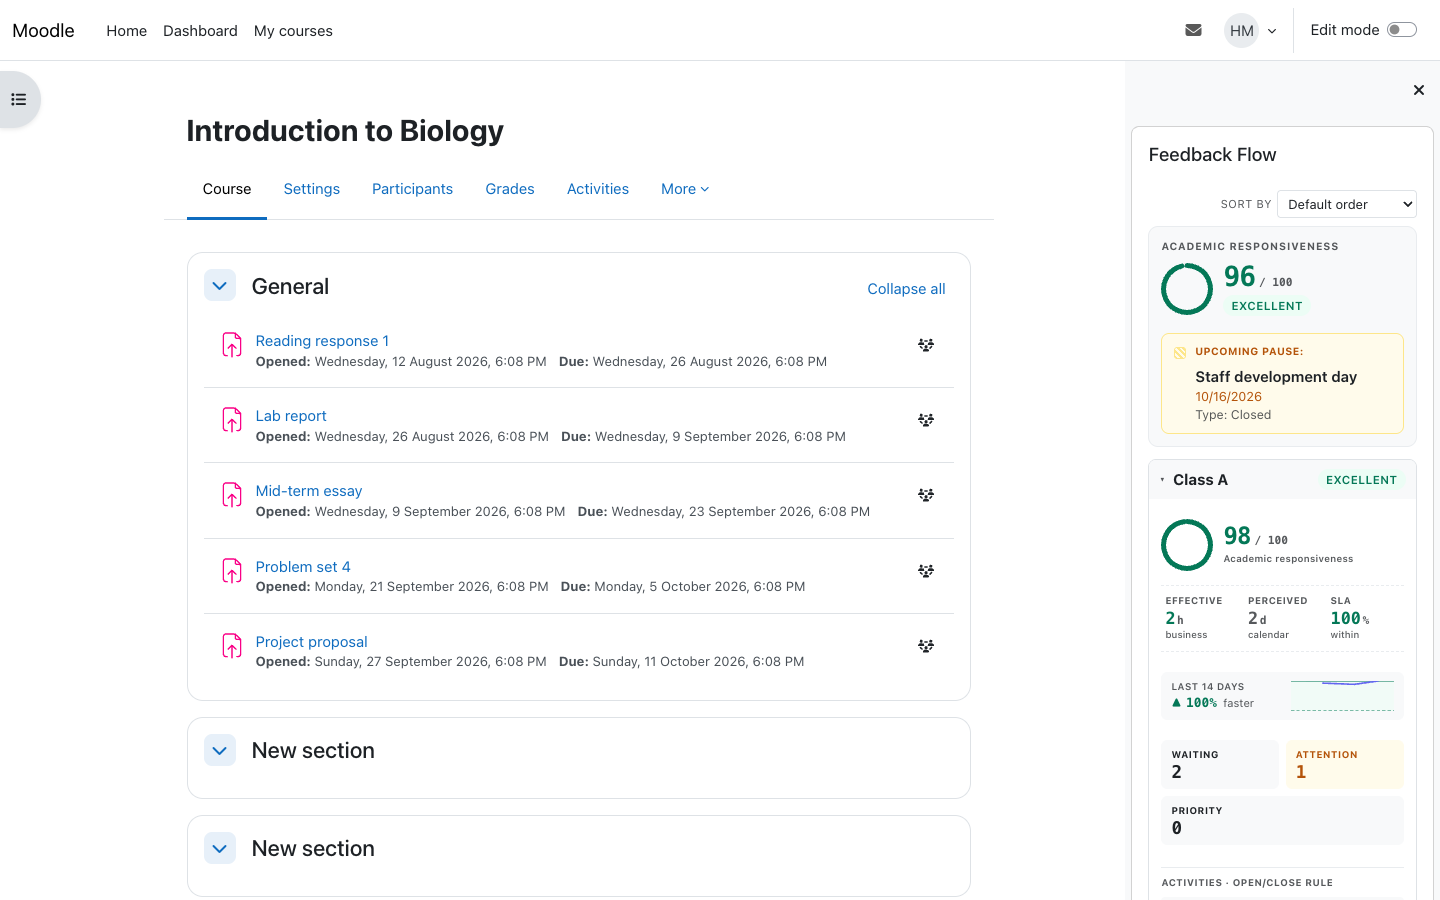
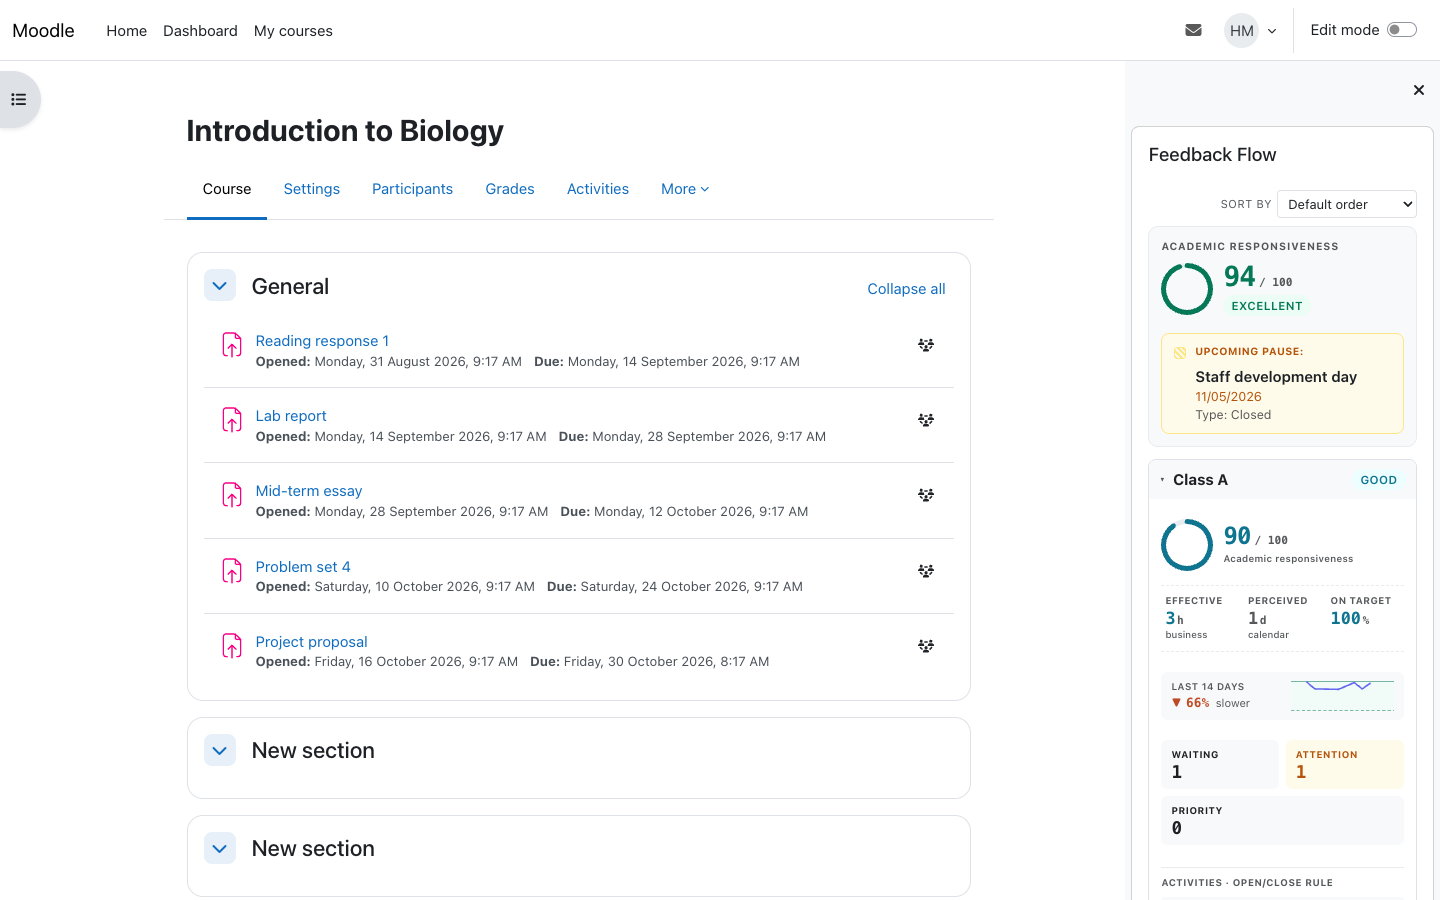
Refresh the README screenshots and add the CI badges [skip ci]
The four screenshots predated the Feedback Flow name and the target-time
labels: they still read "Feedback tracker" and "SLA". They are shot again
on a demo term re-seeded relative to today (Moodle 5.1, Boost), with the
same framing as before.

The README now opens with one Moodle Plugin CI badge per supported
branch: main for 5.3, then the 5.2, 5.1 and 4.5 stable branches.

The audit plan no longer records the database measurement of the
priority list's query: it was taken on one platform only, and the audit
gives no database advice from it.

diff --git a/docs/performance-audit/PLAN.md b/docs/performance-audit/PLAN.md
@@ -292,14 +292,8 @@ purged), byte for byte the same (`fix4-equiv/`), the manager's including a momen
 (`fix4-ab.sh`, `fix4-ab.log`, flag off, the dashboard's answers cached after the warm load) moved nothing beyond
 noise: the last call of D2 was 1,055 / 973 ms before and 885 / 912 ms after, still the priority list.
 
-**S3, found here: PostgreSQL's JIT compiles the priority list's query on every call.** `EXPLAIN ANALYZE` of the
-manager's query (m503b, PostgreSQL 18.6, defaults `jit = on`, `jit_above_cost` 100,000): execution 488 ms, of which JIT
-304 ms (inlining 38, optimisation 140, emission 123); with `SET jit = off` 181-197 ms. The planner's estimate (2.6 M,
-the subplans of the marker-allocation filter over an `IN` of 500 courses) is what triggers it. A restructured query
-(top-N over the ledger first, the joins on the chosen rows only) runs in 25 ms with JIT off, but 108-137 ms once it
-re-checks that the user, course and module of each row exist (as the inner joins did), and ~500 ms with JIT on: no gain
-unless JIT is off. Left to the owner: a README line recommending `jit = off` for the site's database, measured, and
-whether the restructure is then worth its two-query shape.
+The priority list's remaining time is spent executing its query in the database. The audit measured that on
+one platform only, so it changes nothing there and gives no database advice.
 
 Gates: `group_access_test` (`test_prime_answers_as_each_course_alone`, `test_prime_reads_do_not_grow_with_the_courses`),
 `dashboard_scope_test` (`test_sql_visibility_keeps_each_courses_own_rows`, `test_sql_visibility_reads_do_not_grow_with_the_courses`),

diff --git a/README.md b/README.md
@@ -1,5 +1,10 @@
 # Feedback Flow
 
+[![Moodle Plugin CI: main (Moodle 5.3)](https://github.com/uaiblaine/moodle-block_feedback_tracker/actions/workflows/ci.yml/badge.svg?branch=main)](https://github.com/uaiblaine/moodle-block_feedback_tracker/actions/workflows/ci.yml?query=branch%3Amain)
+[![Moodle Plugin CI: MOODLE_502_STABLE (Moodle 5.2)](https://github.com/uaiblaine/moodle-block_feedback_tracker/actions/workflows/ci.yml/badge.svg?branch=MOODLE_502_STABLE)](https://github.com/uaiblaine/moodle-block_feedback_tracker/actions/workflows/ci.yml?query=branch%3AMOODLE_502_STABLE)
+[![Moodle Plugin CI: MOODLE_501_STABLE (Moodle 5.1)](https://github.com/uaiblaine/moodle-block_feedback_tracker/actions/workflows/ci.yml/badge.svg?branch=MOODLE_501_STABLE)](https://github.com/uaiblaine/moodle-block_feedback_tracker/actions/workflows/ci.yml?query=branch%3AMOODLE_501_STABLE)
+[![Moodle Plugin CI: MOODLE_405_STABLE (Moodle 4.5)](https://github.com/uaiblaine/moodle-block_feedback_tracker/actions/workflows/ci.yml/badge.svg?branch=MOODLE_405_STABLE)](https://github.com/uaiblaine/moodle-block_feedback_tracker/actions/workflows/ci.yml?query=branch%3AMOODLE_405_STABLE)
+
 **Feedback Flow** helps teaching teams visualize — and value — how efficiently students receive feedback on their work, measured fairly in *working time* rather than raw calendar days.
 
 ## Why Feedback Flow?
